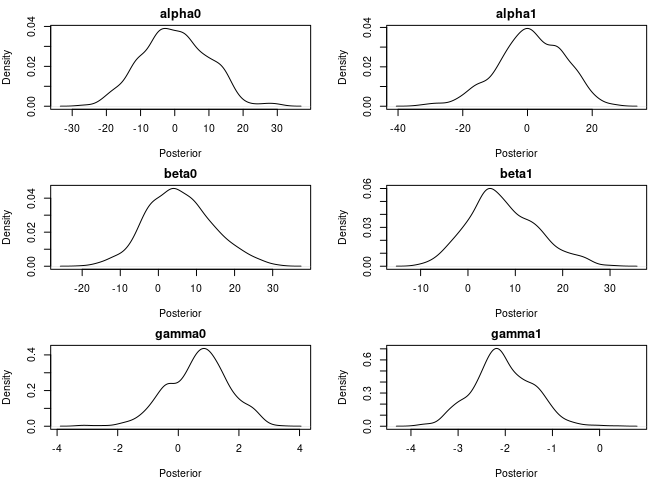
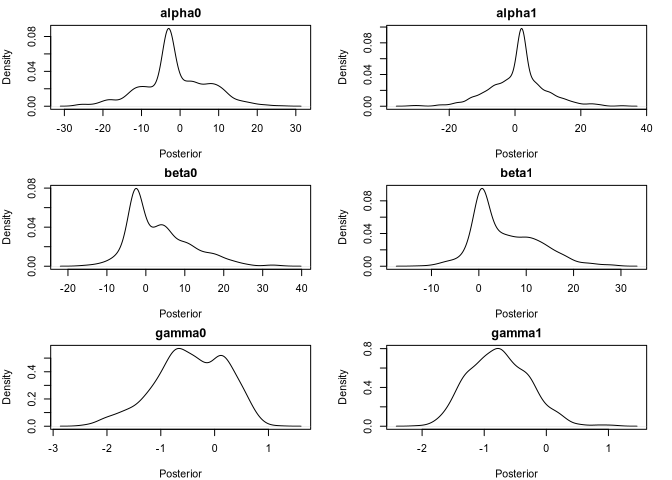
:hammer: start random forest

diff --git a/README.md b/README.md
@@ -22,6 +22,17 @@ devtools::install_github("emilio-berti/hattian")
 hattian depends on big packages, such as stan and Rcpp, and it takes
 some time to install. Be patient…
 
+You can install all dependencies before install hattian by running:
+
+``` r
+install.packages(
+  c(
+    "loo", "Rcpp", "RcppParallel", "rstan", "rstantools", "BH", 
+    "RcppEigen", "StanHeaders", "rgbif", "RandomForest"
+  )
+)
+```
+
 Load the package:
 
 ``` r
@@ -49,30 +60,12 @@ Hattian contains \# models to infer foodwebs:
 ## Scaling niche model (Yeakel et al., 2014)
 
 This is the simplest model implemented in hattian. The probability that
-predator
-![j](https://latex.codecogs.com/png.image?%5Cdpi%7B110%7D&space;%5Cbg_white&space;j
-"j") predates on prey
-![i](https://latex.codecogs.com/png.image?%5Cdpi%7B110%7D&space;%5Cbg_white&space;i
-"i") is given by their body mass ratio:   
-![
-P(A\_{ij} = 1) = \\frac{p}{1 + p}
-](https://latex.codecogs.com/png.image?%5Cdpi%7B110%7D&space;%5Cbg_white&space;%0AP%28A_%7Bij%7D%20%3D%201%29%20%3D%20%5Cfrac%7Bp%7D%7B1%20%2B%20p%7D%0A
-"
-P(A_{ij} = 1) = \\frac{p}{1 + p}
-")  
-where   
-![
-p = exp( a\_1 + a\_2 log\_{10}(\\frac{m\_j}{m\_i}) + a\_3
-(log\_{10}(\\frac{m\_j}{m\_i}))^2 )
-](https://latex.codecogs.com/png.image?%5Cdpi%7B110%7D&space;%5Cbg_white&space;%0Ap%20%3D%20exp%28%20a_1%20%2B%20a_2%20log_%7B10%7D%28%5Cfrac%7Bm_j%7D%7Bm_i%7D%29%20%2B%20a_3%20%28log_%7B10%7D%28%5Cfrac%7Bm_j%7D%7Bm_i%7D%29%29%5E2%20%29%0A
-"
-p = exp( a_1 + a_2 log_{10}(\\frac{m_j}{m_i}) + a_3 (log_{10}(\\frac{m_j}{m_i}))^2 )
-")  
-and
-![m\_i](https://latex.codecogs.com/png.image?%5Cdpi%7B110%7D&space;%5Cbg_white&space;m_i
-"m_i") and
-![m\_j](https://latex.codecogs.com/png.image?%5Cdpi%7B110%7D&space;%5Cbg_white&space;m_j
-"m_j") are the body masses if prey and predator, respectively.
+predator $j$ predates on prey $i$ is given by their body mass ratio: $$
+P(A_{ij} = 1) = \frac{p}{1 + p}
+$$ where $$
+p = exp( a_1 + a_2 log_{10}(\frac{m_j}{m_i}) + a_3 (log_{10}(\frac{m_j}{m_i}))^2 )
+$$ and $m_i$ and $m_j$ are the body masses if prey and predator,
+respectively.
 
 This model is coded in stan and is called using `yeakel_stan()`:
 
@@ -129,44 +122,17 @@ par(oldpar)
 This model is a conceptual variation of the Yeakel (2014) model. In
 Yeakel’s model, the relative optimal prey size is constant for all
 predators, with niche width determined by the parameter `a3`. In Li’s
-model, instead, the optimal prey size
-(![\\mu\_j](https://latex.codecogs.com/png.image?%5Cdpi%7B110%7D&space;%5Cbg_white&space;%5Cmu_j
-"\\mu_j")) and niche width
-![\\sigma\_j](https://latex.codecogs.com/png.image?%5Cdpi%7B110%7D&space;%5Cbg_white&space;%5Csigma_j
-"\\sigma_j") of a predator
-![j](https://latex.codecogs.com/png.image?%5Cdpi%7B110%7D&space;%5Cbg_white&space;j
-"j") scale allometrically with predators’ size. Specifically, for a
-predator
-![j](https://latex.codecogs.com/png.image?%5Cdpi%7B110%7D&space;%5Cbg_white&space;j
-"j"), its optimal size prey is:   
-![
-\\mu\_j = \\alpha\_0 + \\alpha\_1 log\_{10}(m\_j)
-](https://latex.codecogs.com/png.image?%5Cdpi%7B110%7D&space;%5Cbg_white&space;%0A%5Cmu_j%20%3D%20%5Calpha_0%20%2B%20%5Calpha_1%20log_%7B10%7D%28m_j%29%0A
-"
-\\mu_j = \\alpha_0 + \\alpha_1 log_{10}(m_j)
-")  
-its niche width is:   
-![
-\\sigma\_j = exp(\\beta\_0 + \\beta\_1 log\_{10}(m\_j))
-](https://latex.codecogs.com/png.image?%5Cdpi%7B110%7D&space;%5Cbg_white&space;%0A%5Csigma_j%20%3D%20exp%28%5Cbeta_0%20%2B%20%5Cbeta_1%20log_%7B10%7D%28m_j%29%29%0A
-"
-\\sigma_j = exp(\\beta_0 + \\beta_1 log_{10}(m_j))
-")  
-and the maximum probability of interaction is:   
-![
-\\theta\_j = logit^{-1}(\\gamma\_0 + \\gamma\_1 log\_{10}(m\_j))
-](https://latex.codecogs.com/png.image?%5Cdpi%7B110%7D&space;%5Cbg_white&space;%0A%5Ctheta_j%20%3D%20logit%5E%7B-1%7D%28%5Cgamma_0%20%2B%20%5Cgamma_1%20log_%7B10%7D%28m_j%29%29%0A
-"
-\\theta_j = logit^{-1}(\\gamma_0 + \\gamma_1 log_{10}(m_j))
-")  
-The probability of interaction is then calculated as:   
-![
-P(A\_{ij} = 1) = \\theta\_j exp( - \\frac{(log\_{10}(m\_j/m\_i) -
-\\mu\_j)^2}{2\\sigma\_j^2} )
-](https://latex.codecogs.com/png.image?%5Cdpi%7B110%7D&space;%5Cbg_white&space;%0AP%28A_%7Bij%7D%20%3D%201%29%20%3D%20%5Ctheta_j%20exp%28%20-%20%5Cfrac%7B%28log_%7B10%7D%28m_j%2Fm_i%29%20-%20%5Cmu_j%29%5E2%7D%7B2%5Csigma_j%5E2%7D%20%29%0A
-"
-P(A_{ij} = 1) = \\theta_j exp( - \\frac{(log_{10}(m_j/m_i) - \\mu_j)^2}{2\\sigma_j^2} )
-")  
+model, instead, the optimal prey size ($\mu_j$) and niche width
+$\sigma_j$ of a predator $j$ scale allometrically with predators’ size.
+Specifically, for a predator $j$, its optimal size prey is: $$
+\mu_j = \alpha_0 + \alpha_1 log_{10}(m_j)
+$$ its niche width is: $$
+\sigma_j = exp(\beta_0 + \beta_1 log_{10}(m_j))
+$$ and the maximum probability of interaction is: $$
+\theta_j = logit^{-1}(\gamma_0 + \gamma_1 log_{10}(m_j))
+$$ The probability of interaction is then calculated as: $$
+P(A_{ij} = 1) = \theta_j exp( - \frac{(log_{10}(m_j/m_i) - \mu_j)^2}{2\sigma_j^2} )
+$$
 
 ``` r
 # create community
@@ -178,7 +144,7 @@ fw <- matrix(NA, nrow = S, ncol = S)
 alpha0 <- -3
 alpha1 <- 2
 beta0 <- -3
-beta1 <- 0.5
+beta1 <- 0.75
 gamma0 <- 0.1
 gamma1 <- -0.1
 
@@ -206,11 +172,11 @@ fit_li <- li_stan(
   warmup = 250, iter = 500, #to speed up vignette
   cores = 4, refresh = 250
 )
-#> Warning: There were 140 divergent transitions after warmup. See
+#> Warning: There were 342 divergent transitions after warmup. See
 #> https://mc-stan.org/misc/warnings.html#divergent-transitions-after-warmup
 #> to find out why this is a problem and how to eliminate them.
 #> Warning: Examine the pairs() plot to diagnose sampling problems
-#> Warning: The largest R-hat is 1.05, indicating chains have not mixed.
+#> Warning: The largest R-hat is 1.56, indicating chains have not mixed.
 #> Running the chains for more iterations may help. See
 #> https://mc-stan.org/misc/warnings.html#r-hat
 #> Warning: Bulk Effective Samples Size (ESS) is too low, indicating posterior means and medians may be unreliable.
@@ -245,9 +211,9 @@ par(oldpar)
 # References
 
 Antunes, A. C., Berti, E., Brose, U., Hirt, M. R., Karger, D. N.,
-O’Connor, L. M., … & Gauzens, B. (2024). Linking biodiversity,
-ecosystem function, and Nature’s contributions to people: a
-macroecological energy flux perspective. Trends in Ecology & Evolution.
+O’Connor, L. M., … & Gauzens, B. (2024). Linking biodiversity, ecosystem
+function, and Nature’s contributions to people: a macroecological energy
+flux perspective. Trends in Ecology & Evolution.
 <https://doi.org/10.1016/j.tree.2024.01.004>
 
 Li, J., Luo, M., Wang, S., Gauzens, B., Hirt, M. R., Rosenbaum, B., &
